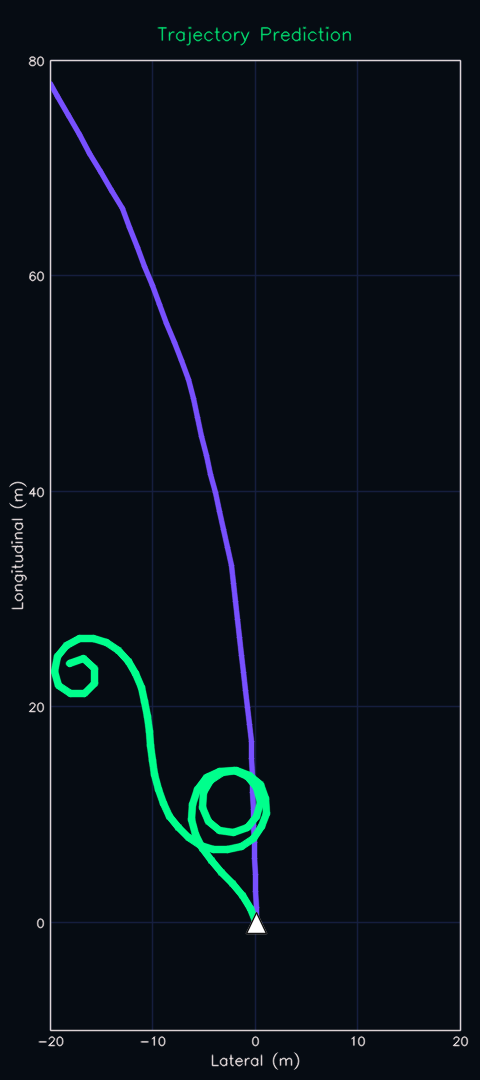
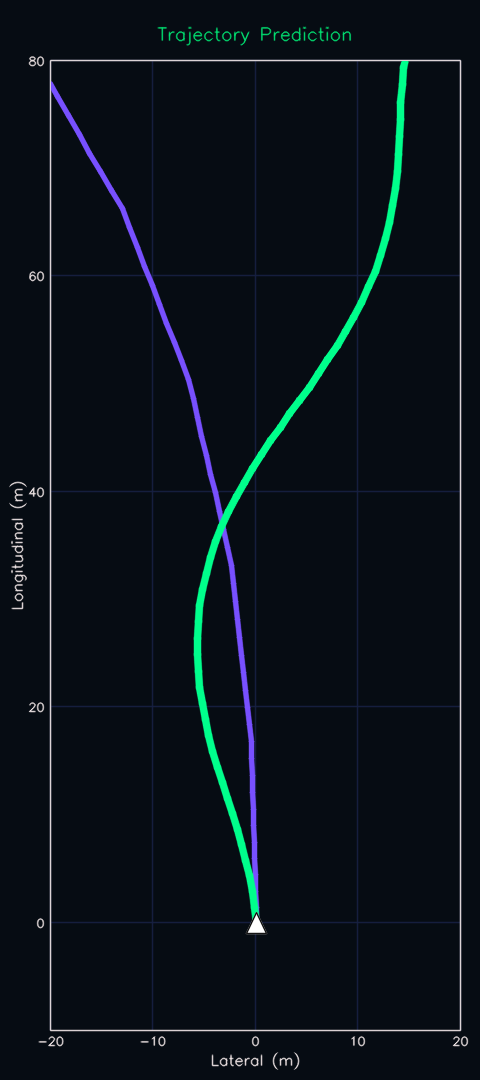
feat(trajectory-rendering): update README to describe the usage

diff --git a/Model/visualization/trajectory_rendering.py b/Model/visualization/trajectory_rendering.py
@@ -184,24 +184,36 @@ class Visualization:
     @staticmethod
     def render_trajectory_on_a_grid(
         action_sequence: torch.Tensor,
-        current_speed: float
+        current_speed: float,
+        actual_action_sequence: Optional[torch.Tensor] = None,
+        prediction_color: tuple = (140, 255, 0),
+        actual_trajectory_color: Optional[tuple] = (255, 80, 120)
     ) -> np.ndarray:
         """
-        Renders a predicted action sequence onto a standardized BEV grid visualization.
+        Renders predicted (and optionally actual) action sequences onto a standardized BEV grid visualization.
 
         Args:
-            action_sequence (torch.Tensor): Flattened tensor of predicted [acceleration, curvature].
+            action_sequence (torch.Tensor): Predicted trajectory [acceleration, curvature].
             current_speed (float): Current speed of the ego vehicle.
+            actual_action_sequence (Optional[torch.Tensor]): Ground truth trajectory.
+            prediction_color (tuple): Color for predicted trajectory.
+            actual_trajectory_color (tuple): Color for actual trajectory.
 
         Returns:
-            np.ndarray: An image array of the grid visualization with the predicted trajectory.
+            np.ndarray: An image array of the grid visualization.
         """
-        # 1. Convert trajectory to [x y] in meters
-        trajectory_m = Visualization.accel_and_curv_to_meters_trajectory(
-            action_sequence, current_speed, _FUTURE_TIMESTEPS, initial_heading=0.0
+        pred_m = Visualization.accel_and_curv_to_meters_trajectory(action_sequence, current_speed, _FUTURE_TIMESTEPS, initial_heading=0.0)
+                
+        act_m = None
+        if actual_action_sequence is not None:
+            act_m = Visualization.accel_and_curv_to_meters_trajectory(actual_action_sequence, current_speed, _FUTURE_TIMESTEPS, initial_heading=0.0)
+
+        grid_with_trajectory = Visualization.generate_grid(
+            prediction_m=pred_m, 
+            actual_trajectory_m=act_m,
+            prediction_color=prediction_color,
+            actual_trajectory_color=actual_trajectory_color
         )
-        # 2. Generate Grid and overlay trajectory
-        grid_with_trajectory = Visualization.generate_grid(prediction_m=trajectory_m)
 
         return grid_with_trajectory
 
@@ -209,7 +221,7 @@ class Visualization:
     def generate_grid(
         prediction_m: torch.Tensor, 
         actual_trajectory_m: Optional[torch.Tensor] = None,
-        prediction_color: Optional[tuple] = (140, 255, 0),
+        prediction_color: tuple = (140, 255, 0),
         actual_trajectory_color: Optional[tuple] = (255, 80, 120)
         ) -> np.ndarray:
         """
@@ -305,19 +317,19 @@ class Visualization:
 
         # Draw Actual Trajectory
         if actual_trajectory_m is not None:
-            pts_actual = []
+            pts = []
             for i in range(actual_trajectory_m.shape[0]):
-                pts_actual.append(to_px_local(float(actual_trajectory_m[i, 0]), float(actual_trajectory_m[i, 1])))
-            pts_actual_arr = np.array(pts_actual, np.int32).reshape((-1, 1, 2))
-            cv2.polylines(plot_canvas, [pts_actual_arr], isClosed=False, color=actual_trajectory_color, thickness=4, lineType=cv2.LINE_AA)
+                pts.append(to_px_local(float(actual_trajectory_m[i, 0]), float(actual_trajectory_m[i, 1])))
+            pts_arr = np.array(pts, np.int32).reshape((-1, 1, 2))
+            cv2.polylines(plot_canvas, [pts_arr], isClosed=False, color=actual_trajectory_color, thickness=4, lineType=cv2.LINE_AA)
             
-        # Draw Prediction
+        # Draw Predicted Trajectory
         if prediction_m is not None:
-            pts_pred = []
+            pts = []
             for i in range(prediction_m.shape[0]):
-                pts_pred.append(to_px_local(float(prediction_m[i, 0]), float(prediction_m[i, 1])))
-            pts_pred_arr = np.array(pts_pred, np.int32).reshape((-1, 1, 2))
-            cv2.polylines(plot_canvas, [pts_pred_arr], isClosed=False, color=prediction_color, thickness=6, lineType=cv2.LINE_AA)
+                pts.append(to_px_local(float(prediction_m[i, 0]), float(prediction_m[i, 1])))
+            pts_arr = np.array(pts, np.int32).reshape((-1, 1, 2))
+            cv2.polylines(plot_canvas, [pts_arr], isClosed=False, color=prediction_color, thickness=6, lineType=cv2.LINE_AA)
             
         # Draw Ego Vehicle (Filled triangle with outline)
         ego_px, ego_py = to_px_local(0, 0)

diff --git a/Model/visualization/Kit_Scenes_visualization/kit_scenes_visualizer.py b/Model/visualization/Kit_Scenes_visualization/kit_scenes_visualizer.py
@@ -47,13 +47,17 @@ def visualization_on_kit_scenes(scene_ids: Optional[list[str]] = None, frame_ind
         map_image = cv2.resize(map_image, (target_w, target_h), interpolation=cv2.INTER_LINEAR)
         resolution_m_px = resolution_m_px * (current_w / target_w)
 
+    # 0.5 Define color scheme
+    prediction_color = (140, 255, 0)
+    actual_trajectory_color = (255, 80, 120)
+
     # 1. Draw extracted ground truth (actual driven path) on map tile
     combined_img = Visualization.render_trajectory_map_tile(
         action_sequence=target_trajectory,
         current_speed=current_speed,
         map_image=map_image,
         resolution_m_px=resolution_m_px,
-        color=(255, 108, 59), # Orange target
+        color=actual_trajectory_color,
         initial_heading=current_heading
     )
 
@@ -63,17 +67,42 @@ def visualization_on_kit_scenes(scene_ids: Optional[list[str]] = None, frame_ind
         current_speed=current_speed,
         map_image=combined_img,
         resolution_m_px=resolution_m_px,
-        color=(164, 217, 52), # Green pred
+        color=prediction_color, 
         initial_heading=current_heading
     )
 
     # 3. Create Camera View with trajectory and Grid
-    camera_and_grid = Visualization.complete_front_camera_view_with_trajectory(
-        action_sequence_target=target_trajectory,
-        action_sequence_pred=pred_trajectory,
+    grid_with_trajectory = Visualization.render_trajectory_on_a_grid(
+        action_sequence=pred_trajectory,
         current_speed=current_speed,
-        front_camera_image=raw_camera_image,
-        P=P
+        actual_action_sequence=target_trajectory,
+        prediction_color=prediction_color,
+        actual_trajectory_color=actual_trajectory_color
+    )
+
+    cam_trajectory_view = raw_camera_image.copy()
+    
+    if target_trajectory is not None:
+        cam_trajectory_view = Visualization.complete_front_camera_view_with_trajectory(
+            action_sequence=target_trajectory,
+            current_speed=current_speed,
+            front_camera_image=cam_trajectory_view,
+            P=P,
+            color=actual_trajectory_color
+        )
+        
+    if pred_trajectory is not None:
+        cam_trajectory_view = Visualization.complete_front_camera_view_with_trajectory(
+            action_sequence=pred_trajectory,
+            current_speed=current_speed,
+            front_camera_image=cam_trajectory_view,
+            P=P,
+            color=prediction_color
+        )
+        
+    camera_and_grid = Visualization.concatenate_grid_and_camera(
+        grid_img=grid_with_trajectory,
+        cam_img=cam_trajectory_view
     )
 
     return combined_img, camera_and_grid

diff --git a/Model/visualization/L2D_visualization/run_l2d_visualization.py b/Model/visualization/L2D_visualization/run_l2d_visualization.py
@@ -63,29 +63,24 @@ def visualization_on_l2d(episodes: list[int], frame_index: int = 0, zoom_in: boo
         initial_heading=current_heading
     )
 
-    # 3. Generate Grid and overlay trajectory
-    # We must convert the raw action sequence (accel/curv) into metric [x, y] coordinates first
-    pred_trajectory_m = Visualization.accel_and_curv_to_meters_trajectory(
-        pred_trajectory, current_speed, 64, initial_heading=0.0
-    )
-    target_trajectory_m = Visualization.accel_and_curv_to_meters_trajectory(
-        target_trajectory, current_speed, 64, initial_heading=0.0
-    )
-    
-    grid_with_trajectory = Visualization.generate_grid(
-        prediction_m=pred_trajectory_m,
-        actual_trajectory_m=target_trajectory_m,
+    # 3. Create Camera View with trajectory and Grid
+    grid_with_trajectory = Visualization.render_trajectory_on_a_grid(
+        action_sequence=pred_trajectory,
+        current_speed=current_speed,
+        actual_action_sequence=target_trajectory,
         prediction_color=prediction_color,
         actual_trajectory_color=actual_trajectory_color
     )
 
+    # Load Extrinsics
+    yaml_path = os.path.join(os.path.dirname(os.path.abspath(__file__)), '..', '..', 'data_parsing', 'l2d', 'configs', 'extrinsic_RDF.yaml')
+    R, t = load_extrinsics(yaml_path, view_name="observation.images.front_left")
+    
     K = np.array([
         [1000, 0, front_image.shape[1] / 2],
         [0, 1000, front_image.shape[0] / 2],
         [0, 0, 1]
     ], dtype=np.float32)
-    R = np.eye(3, dtype=np.float32)
-    t = np.zeros((3, 1), dtype=np.float32)
 
     cam_trajectory_view = front_image.copy()
     
@@ -99,7 +94,7 @@ def visualization_on_l2d(episodes: list[int], frame_index: int = 0, zoom_in: boo
             t=t,
             color=actual_trajectory_color
         )
-        
+    
     if pred_trajectory is not None:
         cam_trajectory_view = Visualization.complete_front_camera_view_with_trajectory(
             action_sequence=pred_trajectory,

diff --git a/Model/visualization/README.md b/Model/visualization/README.md
@@ -1,54 +1,104 @@
 # Trajectory Visualization #
 
-This is implemented as a class. It contains 4 functions:
-* `accel_and_curv_to_meters_trajectory`
-* `meters_to_pixels_trajectory`
-* `overlay_the_trajectory_with_map`
+This is implemented as a class. It contains 3 key functions:
 * `render_trajectory_map_tile`
+* `render_trajectory_on_a_grid`
+* `complete_front_camera_view_with_trajectory`
+ 
+Function | `render_trajectory_map_tile` | `render_trajectory_on_a_grid` | `complete_front_camera_view_with_trajectory`
+-----|:----:|:---:|:---:
+View | Top-Down Map View | Grid View | Front Camera View
+Outputs | <img src="L2D_visualization/generated_images/visualization_result_map.png" alt="Top-Down Map View" height="100"> | <img src="L2D_visualization/generated_images/visualization_result_grid.png" alt="Grid View" height="100"> | <img src="L2D_visualization/generated_images/visualization_result_cam.png" alt="Front Camera View" height="100">
+Description | The top-down bird's eye view of the map tile with the drawn trajectory. | A 2D metric grid with the drawn trajectory. | A camera view with the perspective-correct 3D footprint trajectory drawn.
 
-## Complete function ##
+All the visualization is done using OpenCV, which should *theoretically* allow for effective video generation.
+
+## Usage ##
 
 ### `render_trajectory_map_tile`
 
-Integrates predicted trajectory into metric coordinates and 
-draws them onto the raw BEV map tile.
+Overlays the trajectory directly onto a top-down BEV map tile.
 
-It takes four inputs:
-* `action_sequence`: (128, ) flattened (64, 2) $[acceleration, curvature]$ tensor.
-It is the exact format of the trajectory outputted by `model()` function.
-* `current_speed`: Scalar float from the egomotion history. 
-This should be extracted from the egomotion history
-* `map_image`: A map tile, not normalized. 
-Ideally, it should follow L2D format. 
-If the dataset does not provide maps directly, but provides GPS history, 
-please use already existing [map generation function](https://github.com/autowarefoundation/auto_e2e/tree/main/Model/data_parsing/map_rendering)
-to get a map tile.
-* `radius_m`: The metric boundary of the `map_image` in meters.
+* `action_sequence`: A flattened tensor `(128,)` of predicted `[acceleration, curvature]`. This is the exact format outputted by the `model()` function.
+* `current_speed`: The ego vehicle's current speed in m/s.
+* `map_image`: Must be a map tile, not normalized. If the dataset does not provide maps directly, but provides GPS history, please use the already existing [map generation function](https://github.com/autowarefoundation/auto_e2e/tree/main/Model/data_parsing/map_rendering) to get a map tile.
+* `resolution_m_px`: The metric resolution of the map image (meters per pixel).
+* `color`: The BGR color tuple for the trajectory line (e.g., `(0, 255, 0)` for green).
+* `initial_heading`: The initial heading of the ego vehicle in radians.
 
-Returns:
-* A new Image with the trajectory drawn on it.
+**Example Usage:**
+```python
+from visualization.trajectory_rendering import Visualization
 
-## Helper functions ##
+map_with_trajectory = Visualization.render_trajectory_map_tile(
+    action_sequence=pred_trajectory,
+    current_speed=10.5,
+    map_image=my_map_tile_bgr,
+    resolution_m_px=0.4,
+    color=(164, 217, 52), # Green
+    initial_heading=0.0
+)
+```
 
-### `accel_and_curv_to_meters_trajectory`
-Takes an action sequence containing pairs of acceleration ($m/s^2$) and curvature ($rad/m$), the ego vehicle's current speed, and a defined number of future timesteps. 
-It integrates these values over time using a kinematic model to produce a tensor of metric $(X, Y)$ coordinates. The ego vehicle is positioned at the origin $(0.0, 0.0)$, with forward movement mapped to the positive $Y$-axis.
+### `render_trajectory_on_a_grid`
 
-### `meters_to_pixels_trajectory`
-Converts the metric trajectory tensor into 2D image pixel coordinates $(U, V)$. It scales the coordinates based on the pixel dimensions of the provided map image and the metric boundary `radius_m`.
+Draws the trajectory on a generated 2D metric grid, useful when a map tile is not available or for analyzing pure kinematic shapes.
 
-### `overlay_the_trajectory_with_map`
-Uses PIL's `ImageDraw` module to render the trajectory as a continuous green line directly onto a copy of the BEV map image. It also draws a red circle at the trajectory's origin to indicate the ego vehicle's current position.
+* `action_sequence`: The predicted `(128,)` trajectory tensor.
+* `current_speed`: The ego vehicle's current speed in m/s.
+* `actual_action_sequence` (optional): The target/ground-truth `(128,)` trajectory tensor.
+* `prediction_color` (optional): Color for the predicted trajectory. Defaults to `(140, 255, 0)`.
+* `actual_trajectory_color` (optional): Color for the actual trajectory. Defaults to `(255, 80, 120)`.
 
-The scale is assumed
-A projection matrix has to be derived for each dataset
+**Example Usage:**
+```python
+grid_image = Visualization.render_trajectory_on_a_grid(
+    action_sequence=pred_trajectory,
+    current_speed=10.5,
+    actual_action_sequence=target_trajectory
+)
+```
+
+### `complete_front_camera_view_with_trajectory`
+
+Projects and renders the 3D footprint of a trajectory onto a 2D front camera image using perspective-correct polygons and semi-opaque fill.
+
+* `action_sequence`: The predicted `(128,)` trajectory tensor.
+* `current_speed`: The ego vehicle's current speed in m/s.
+* `front_camera_image`: The raw, unnormalized BGR camera image.
+* `P`: The 3x4 Camera Projection Matrix. If `P` is not provided, you must provide `K` (Intrinsics), `R` (Rotation), and `t` (Translation).
+* `color`: The BGR color tuple for the semi-opaque footprint (e.g., `(52, 217, 164)`).
+
+**Example Usage:**
+```python
+# Draw target trajectory
+cam_view = Visualization.complete_front_camera_view_with_trajectory(
+    action_sequence=target_trajectory,
+    current_speed=10.5,
+    front_camera_image=raw_camera_image.copy(),
+    K=K,
+    R=R,
+    t=t,
+    color=(255, 80, 120)
+)
+
+# Draw predicted trajectory over the same image
+cam_view = Visualization.complete_front_camera_view_with_trajectory(
+    action_sequence=pred_trajectory,
+    current_speed=10.5,
+    front_camera_image=cam_view,
+    K=K,
+    R=R,
+    t=t,
+    color=(140, 255, 0)
+)
+
+# Optionally concatenate with the grid view
+final_view = Visualization.concatenate_grid_and_camera(grid_image, cam_view)
+```
 
 ## Dependencies ##
 
-You would have all the required dependencies if you followed the [Autoware E2E installation instructions](https://github.com/autowarefoundation/auto_e2e).
+To use `Visualization` class, you would have all the required dependencies if you followed the [Autoware E2E installation instructions](https://github.com/autowarefoundation/auto_e2e). No extra packages are needed.
 
-If you wish to run the live visualization script (`--live`) to test predictions using real dataset records, you will additionally need the [L2D dependencies](https://github.com/autowarefoundation/auto_e2e/tree/main/Model/data_parsing/l2d) 
-
-## TODO ##
-
-A function to draw the trajectory on the camera view is yet to be added.
+If you wish to run the live visualization script (`--live`) on L2D dataset to test visualization using real records, you will additionally need the [L2D dependencies](https://github.com/autowarefoundation/auto_e2e/tree/main/Model/data_parsing/l2d) 